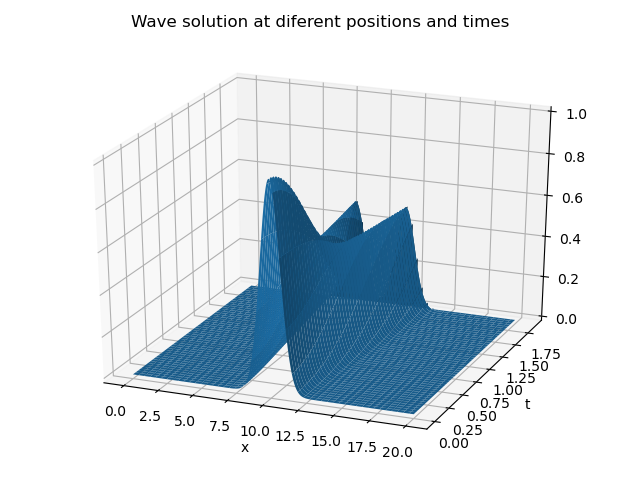
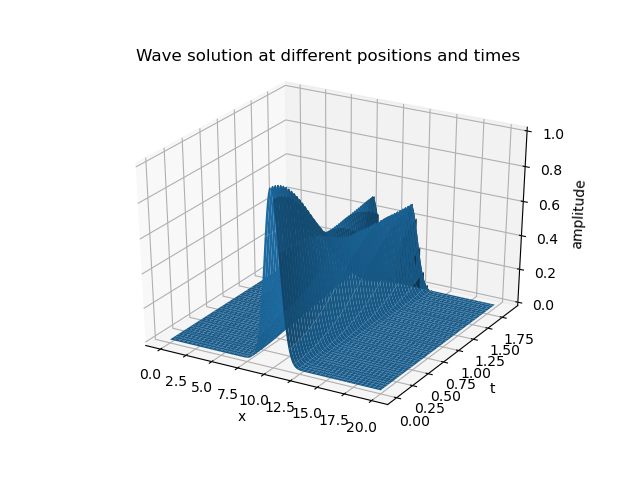
wave equation finally done

diff --git a/3-PDE/wave/problem4.py b/3-PDE/wave/problem4.py
@@ -25,7 +25,7 @@ psi = lambda y : 0
 # solving the equation
 def wave_solver(phi, psi, xi, xf, Nx, Nt, s) :
     ''' phi : specfies u(x, 0), psi : specifies u_t(x, 0), xi, xf : spatial boundary points, N : number of spatial intervals, s : square of ratio of time interval to spatial interval (can be used to define the time interval), c : speed of wave, by default set to ubnity
-    returns a 2D array as the solution to the waev equation where the rows for a fixed column specify solutions at different times and the columns for a fixed row specify the solution at different spatial points '''
+    returns a 2D array as the solution to the wave equation where the rows for a fixed column specify solutions at different times and the columns for a fixed row specify the solution at different spatial points '''
 
     dx = (xf - xi)/Nx
     dt = dx*s**0.5
@@ -59,16 +59,20 @@ def wave(x, v, dt, k) :
     plt.plot(x, v)
     return plt
 
-x, t, u, delta_t = wave_solver(phi, psi, a, L, Nx, Nt, 1.1)
+x, t, u, delta_t = wave_solver(phi, psi, a, L, Nx, Nt, 0.9)
 def animate(k) :
     return wave(x, u[k], delta_t, k)
 
-fig, ax = plt.subplots()
-anim = animation.FuncAnimation(fig, animate, interval=200, frames=200, repeat=False)
-anim.save("wave_equation_solution_s_1.1.gif", writer='imagemagick', fps=10)
+# fig, ax = plt.subplots()
+# anim = animation.FuncAnimation(fig, animate, interval=200, frames=200, repeat=False)
+# anim.save("wave_equation_solution_s_1.1.gif", writer='imagemagick', fps=10)
 
-# fig = plt.figure() 
-# ax = fig.add_subplot(111, projection='3d')
-# space, time = np.meshgrid(x, t) 
-# ax.plot_surface(space, time, u)
-# plt.show()
+fig = plt.figure() 
+ax = fig.add_subplot(111, projection='3d')
+space, time = np.meshgrid(x, t) 
+ax.plot_surface(space, time, u)
+ax.set_title((f"Wave solution at different positions and times\n"))
+ax.set_xlabel('x')
+ax.set_ylabel('t')
+ax.set_zlabel('amplitude')
+plt.show()
